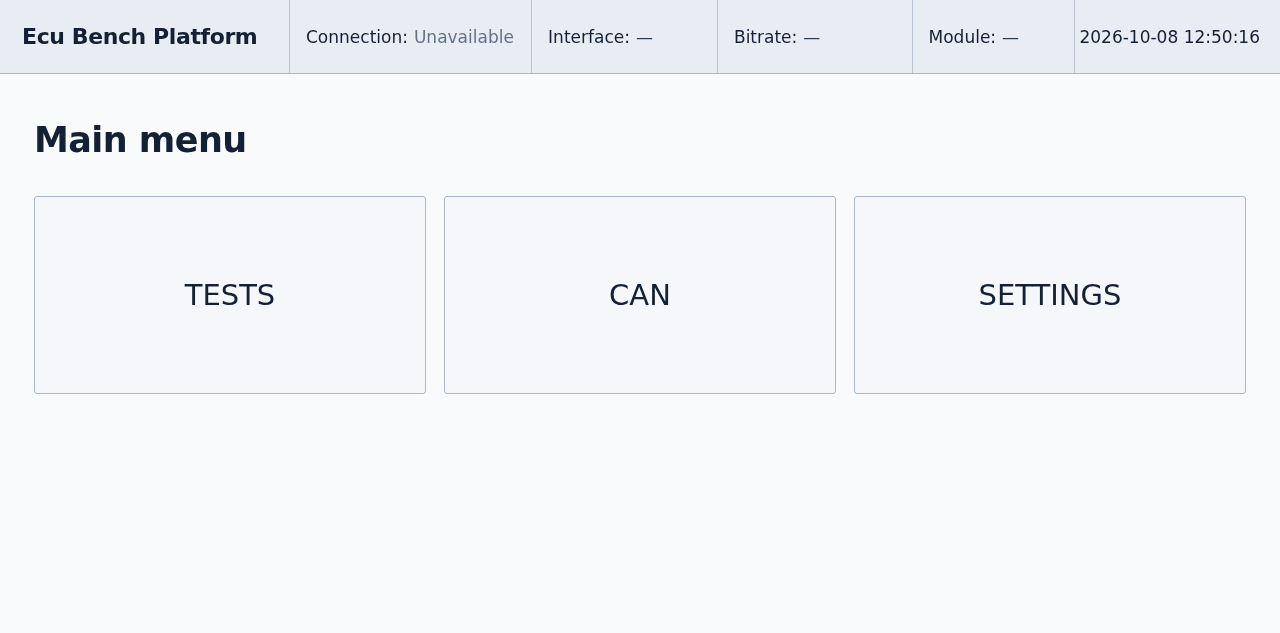
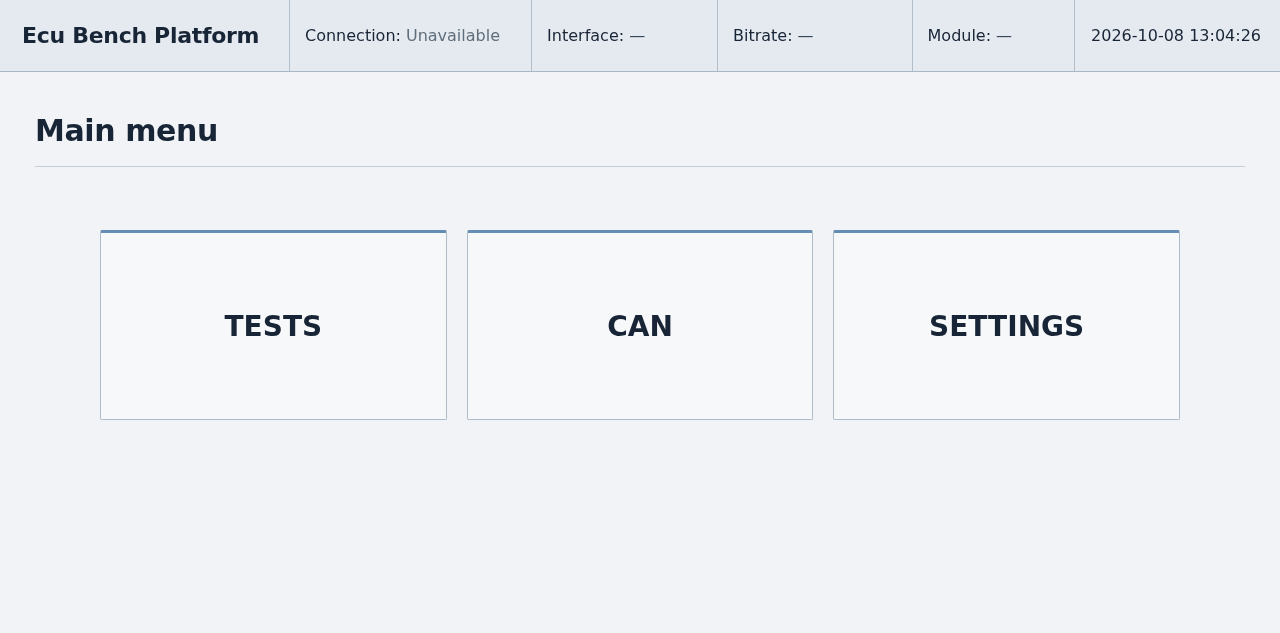
style(webgui): refine V1 home with restrained industrial palette

diff --git a/webgui/styles.css b/webgui/styles.css
@@ -1,75 +1,84 @@
 :root {
   color-scheme: light;
-  --page-bg: #f8fafc;
-  --bar-bg: #e8edf3;
-  --sidebar-bg: #eef2f6;
-  --panel-bg: #f5f7fa;
-  --ink: #142034;
-  --muted: #657285;
-  --border: #b9c4d0;
-  --rule: #c6ced8;
-  --blue: #227fdf;
-  --topbar-height: 74px;
+  --page-bg: #f1f3f6;
+  --bar-bg: #e5eaf0;
+  --sidebar-bg: #e4e9ef;
+  --panel-bg: #f7f8fa;
+  --ink: #182536;
+  --muted: #606e7b;
+  --border: #b2bfcb;
+  --rule: #c5ced8;
+  --blue: #226da8;
+  --blue-hover: #e9f2fa;
+  --topbar-height: 72px;
   font-family: Arial, Helvetica, sans-serif;
-  font-size: 18px;
+  font-size: 17px;
   font-weight: 400;
 }
 * { box-sizing: border-box; }
 html, body { margin: 0; width: 100%; min-height: 100%; }
-body { background: var(--page-bg); color: var(--ink); }
+body { color: var(--ink); background: var(--page-bg); }
 button { font: inherit; color: inherit; cursor: pointer; touch-action: manipulation; }
-button:focus-visible { outline: 3px solid var(--blue); outline-offset: 3px; }
+button:focus-visible { outline: 3px solid var(--blue); outline-offset: 2px; }
 [hidden] { display: none !important; }
+
 .application { min-height: 100vh; min-height: 100dvh; }
+
+/* A fixed technical instrument header, identical on every page. */
 .topbar {
   position: relative;
   z-index: 30;
   display: grid;
   grid-template-columns: 290px minmax(206px, 1.12fr) minmax(162px, 0.86fr)
     minmax(168px, 0.9fr) minmax(120px, 0.75fr) minmax(181px, 0.95fr);
-  align-items: stretch;
   min-height: var(--topbar-height);
   background: var(--bar-bg);
-  border-bottom: 1px solid #abb7c6;
+  border-bottom: 1px solid #a9b6c4;
 }
 .topbar__brand {
   display: flex;
   align-items: center;
-  justify-content: flex-start;
   padding: 0 20px 0 22px;
   border: 0;
   border-right: 1px solid var(--border);
   border-radius: 0;
   background: transparent;
-  white-space: nowrap;
   font-size: 22px;
   font-weight: 700;
-  letter-spacing: -0.4px;
+  letter-spacing: -0.3px;
+  white-space: nowrap;
   text-align: left;
 }
 .topbar__brand:hover,
-.topbar__brand[aria-expanded="true"] { background: #dde6ef; }
+.topbar__brand[aria-expanded="true"] {
+  background: #dce5ed;
+}
+.topbar__brand[aria-expanded="true"] {
+  box-shadow: inset 0 -3px var(--blue);
+}
 .topbar__field {
   display: flex;
   align-items: center;
-  gap: 6px;
+  gap: 5px;
   min-width: 0;
-  padding: 0 16px;
+  padding: 0 15px;
   border-right: 1px solid var(--border);
+  font-size: 16px;
   white-space: nowrap;
-  font-size: 17px;
 }
 .topbar__status { color: var(--muted); }
-.topbar__value { color: #28384d; }
+.topbar__value { color: #34475a; }
 .topbar__clock {
   display: flex;
   align-items: center;
   justify-content: flex-end;
-  padding: 0 20px;
+  padding: 0 19px 0 12px;
+  font-size: 16px;
   white-space: nowrap;
-  font-size: 17px;
   font-variant-numeric: tabular-nums;
 }
+
+/* The menu is presentation-only. Hidden by default, never shifts the page. */
 .workspace {
   position: relative;
   height: calc(100vh - var(--topbar-height));
@@ -81,10 +90,10 @@ button:focus-visible { outline: 3px solid var(--blue); outline-offset: 3px; }
   position: absolute;
   z-index: 10;
   inset: 0;
+  background: rgba(28, 43, 60, 0.11);
   opacity: 0;
   visibility: hidden;
   pointer-events: none;
-  background: rgba(17, 31, 47, 0.10);
   transition: opacity 180ms ease, visibility 180ms;
 }
 .side-panel {
@@ -93,11 +102,10 @@ button:focus-visible { outline: 3px solid var(--blue); outline-offset: 3px; }
   top: 0;
   bottom: 0;
   left: 0;
-  width: 248px;
+  width: 252px;
   max-width: min(85vw, 280px);
   background: var(--sidebar-bg);
-  border-right: 1px solid var(--border);
-  box-shadow: 2px 0 5px rgba(27, 43, 65, 0.055);
+  border-right: 1px solid #a9b6c4;
   transform: translateX(-102%);
   visibility: hidden;
   pointer-events: none;
@@ -113,6 +121,8 @@ button:focus-visible { outline: 3px solid var(--blue); outline-offset: 3px; }
   visibility: visible;
   pointer-events: auto;
 }
+
+/* Functional views only: no dashboard decoration or unverified DUT data. */
 .content {
   width: 100%;
   height: 100%;
@@ -122,49 +132,65 @@ button:focus-visible { outline: 3px solid var(--blue); outline-offset: 3px; }
 .page {
   width: 100%;
   min-height: 100%;
-  padding: 45px 34px 36px;
+  padding: 40px 35px 32px;
 }
 .page h1 {
-  margin: 0 0 35px;
-  font-size: 35px;
-  line-height: 1.2;
+  margin: 0 0 28px;
+  padding: 0 0 17px;
+  border-bottom: 1px solid var(--rule);
+  font-size: 30px;
   font-weight: 700;
-  letter-spacing: -0.55px;
+  line-height: 1.24;
+  letter-spacing: -0.4px;
 }
 .tiles {
   display: grid;
-  gap: 18px;
+  gap: 20px;
   width: 100%;
 }
-.tiles--home { grid-template-columns: repeat(3, minmax(0, 1fr)); }
-.tiles--settings { grid-template-columns: minmax(260px, 380px); }
+.tiles--home {
+  grid-template-columns: repeat(3, minmax(0, 1fr));
+  max-width: 1080px;
+  margin: clamp(48px, 10vh, 96px) auto 0;
+}
+.tiles--settings {
+  grid-template-columns: minmax(260px, 360px);
+}
 .tile {
   display: flex;
   align-items: center;
   justify-content: center;
+  min-height: 190px;
   width: 100%;
-  min-height: 198px;
   padding: 20px;
+  border: 1px solid #aebbc8;
+  border-top: 3px solid #668eb4;
+  border-radius: 2px;
   background: var(--panel-bg);
-  border: 1px solid #aab8c6;
-  border-radius: 3px;
-  font-size: 29px;
-  font-weight: 500;
+  font-size: 28px;
+  font-weight: 600;
   text-align: center;
 }
-.tile:hover, .tile:focus-visible { background: #ebf2f9; border-color: #7ea8d4; }
-.tile:active { background: #dcecfb; }
-.back-button {
-  min-width: 176px;
-  min-height: 62px;
-  margin-top: 31px;
-  padding: 10px 26px;
-  background: var(--panel-bg);
-  border: 1px solid var(--border);
-  border-radius: 3px;
-  font-size: 22px;
+.tile:hover {
+  border-color: #698cae;
+  border-top-color: var(--blue);
+  background: var(--blue-hover);
 }
-.back-button:hover { background: #eaf2fa; }
+.tile:active { background: #dbe9f6; }
+
+.back-button {
+  min-width: 172px;
+  min-height: 60px;
+  margin-top: 31px;
+  padding: 10px 25px;
+  border: 1px solid var(--border);
+  border-radius: 2px;
+  background: var(--panel-bg);
+  font-size: 21px;
+}
+.back-button:hover { background: var(--blue-hover); }
+
+/* Language is a UI preference; the state indicator is not a device status. */
 .language-options {
   display: flex;
   flex-direction: column;
@@ -175,25 +201,41 @@ button:focus-visible { outline: 3px solid var(--blue); outline-offset: 3px; }
   display: flex;
   align-items: center;
   justify-content: space-between;
-  min-height: 88px;
+  min-height: 84px;
   padding: 0 25px;
-  background: var(--panel-bg);
   border: 1px solid var(--border);
-  border-radius: 3px;
-  font-size: 24px;
+  border-radius: 2px;
+  background: var(--panel-bg);
+  font-size: 23px;
   text-align: left;
 }
-.language-option[aria-pressed="true"] { border-color: var(--blue); background: #edf5fe; }
-.language-option:hover { background: #e9f1f9; }
-.language-option__selected { visibility: hidden; font-size: 27px; color: #1566bd; }
+.language-option[aria-pressed="true"] {
+  border-color: #729dc3;
+  box-shadow: inset 3px 0 var(--blue);
+  background: #eaf2fa;
+}
+.language-option:hover { background: var(--blue-hover); }
+.language-option__selected {
+  visibility: hidden;
+  color: var(--blue);
+  font-size: 26px;
+}
 .language-option[aria-pressed="true"] .language-option__selected { visibility: visible; }
+
 @media (max-width: 1120px) {
-  .topbar { grid-template-columns: 290px minmax(200px, 1fr) minmax(140px, .7fr) minmax(150px, .8fr) minmax(170px, .8fr); }
+  .topbar {
+    grid-template-columns: 290px minmax(200px, 1fr) minmax(140px, .7fr)
+      minmax(150px, .8fr) minmax(170px, .8fr);
+  }
   .topbar__field--module { display: none; }
 }
 @media (max-width: 860px) {
-  .topbar { grid-template-columns: 260px minmax(190px, 1fr) minmax(170px, 1fr); }
-  .topbar__field--interface, .topbar__field--bitrate, .topbar__field--module { display: none; }
+  .topbar {
+    grid-template-columns: 260px minmax(190px, 1fr) minmax(170px, 1fr);
+  }
+  .topbar__field--interface,
+  .topbar__field--bitrate,
+  .topbar__field--module { display: none; }
   .tiles--home { grid-template-columns: repeat(2, minmax(0, 1fr)); }
 }
 @media (max-width: 610px) {
@@ -202,10 +244,13 @@ button:focus-visible { outline: 3px solid var(--blue); outline-offset: 3px; }
   .topbar__brand { padding-left: 13px; font-size: 19px; }
   .topbar__field { display: none; }
   .topbar__clock { padding: 0 12px; font-size: 13px; }
-  .page { padding: 32px 18px; }
-  .page h1 { font-size: 30px; margin-bottom: 25px; }
-  .tiles--home { grid-template-columns: 1fr; }
-  .tile { min-height: 123px; font-size: 25px; }
+  .page { padding: 28px 18px; }
+  .page h1 { font-size: 28px; }
+  .tiles--home {
+    grid-template-columns: 1fr;
+    margin-top: 32px;
+  }
+  .tile { min-height: 118px; font-size: 25px; }
   .workspace { min-height: 0; }
 }
 @media (prefers-reduced-motion: reduce) {

diff --git a/docs/WEBGUI_HOME_V1_I18N.md b/docs/WEBGUI_HOME_V1_I18N.md
@@ -113,3 +113,42 @@ A read-only Chromium interaction smoke on the CM5 confirmed the default
 language, brand-menu toggle, no title overflow, settings navigation,
 English-to-Polish transition, local language persistence after refresh, and
 return to English. No kiosk service or Bench/DUT runtime was changed.
+
+## Visual refinement — retained V1 information architecture
+
+The V1 layout is retained. Its styling is now a restrained technical
+interface: light-gray header and workspace, graphite typography, flat
+instrument-like tiles with 1 px borders and a narrow steel-blue top line,
+thin section separators, and no decorative icons, gradients, blur, images,
+stock illustrations, fabricated diagnostic data, or animated dashboard
+elements. The three main tiles remain the only home actions.
+
+The brand itself opens/closes the initially hidden, deliberately empty
+side panel. Only that panel uses a short 180 ms transform, suppressed
+when the operator requests reduced motion. The language catalog, default
+English, the Settings/Language path, and UI/DTC translation separation
+are unchanged.
+
+### Actual browser comparisons at 1280x720
+
+Original V1 baseline:
+- [English before refinement](previews/webgui-home-en-original-1280x720.png)
+- [Polish before refinement](previews/webgui-home-pl-original-1280x720.png)
+
+Refined visual style:
+- [English home](previews/webgui-home-en-1280x720.png)
+- [Polish home](previews/webgui-home-pl-1280x720.png)
+- [Sidebar open, currently intentionally empty](previews/webgui-sidebar-open-1280x720.png)
+- [Language selector, English](previews/webgui-language-en-1280x720.png)
+- [Language selector, Polish](previews/webgui-language-pl-1280x720.png)
+
+The captures are real Chromium screenshots from the CM5 development
+machine, not synthetic mockups. Headless interaction checks confirmed
+the toolbar and tiles do not collide; the sidebar can be opened/closed;
+English/Polish translation, navigation and language persistence function.
+Viewport-geometry checks passed at 1280x720, 1920x1080, 1024x768,
+800x600, 600x800, 375x812 and 320x680.
+
+Only WebGUI styling and reference screenshots changed in this refinement.
+No live kiosk or DUT services were modified. All production integration
+and security gates specified above remain pending.
